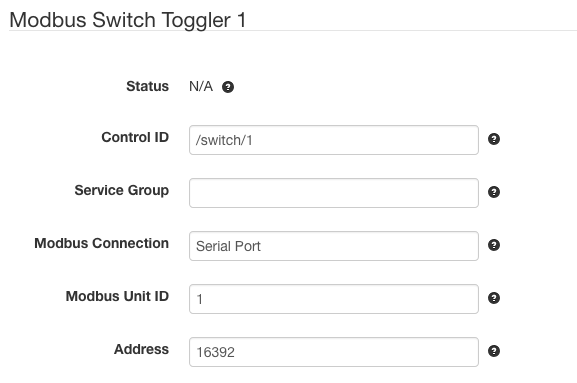
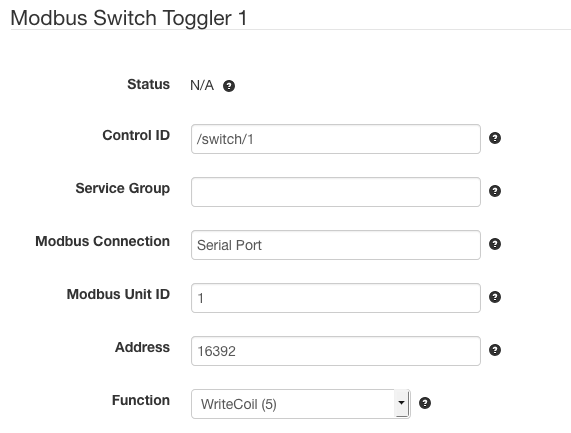
Update Modbus Toggler docs.

diff --git a/net.solarnetwork.node.control.modbus.toggle/README.md b/net.solarnetwork.node.control.modbus.toggle/README.md
@@ -30,7 +30,8 @@ Each device configuration contains the following overall settings:
 | Service Group      | A group name to associate this data source with.                                 |
 | Modbus Connection  | The service name of the Modbus port to use.                                      |
 | Modbus Unit ID     | The ID of the Modbus device to control, from 1 - 255.                            |
-| Address            | The zero-based Modbus address for the coil type switch to toggle.                |
+| Address            | The zero-based Modbus address for coil or holding register to toggle.            |
+| Function           | The Modbus function to use when writing the control state.                       |
 
 ## Overall device settings notes
 
@@ -44,6 +45,9 @@ Each device configuration contains the following overall settings:
 	<dd>Note this value is the zero-based address to read. Sometimes documentation for Modbus
 	devices list the addresses in one-based notation. If that is the case for your device,
 	simply subtract one from the documented address here.</dd>
+	<dt>Function</dT>
+	<dd>Typically this will either be <code>WriteCoil</code> or <code>WriteHoldingRegister</code>,
+	and depends on the device you're using.</dd>
 </dl>
 
 # Use
